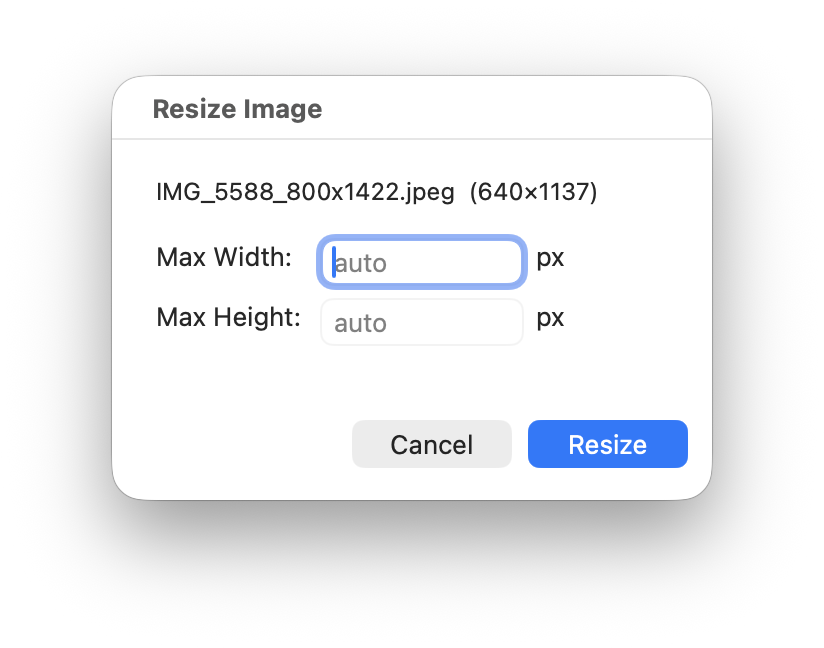
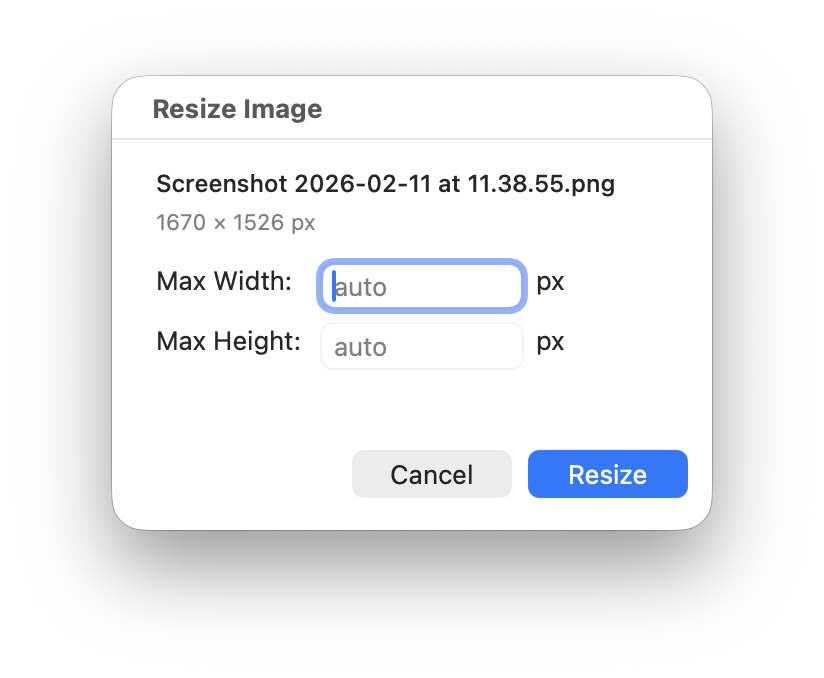
Fix dialog dimension display

diff --git a/resize-dialog.swift b/resize-dialog.swift
@@ -10,7 +10,7 @@ class ResizeDialogController: NSObject, NSWindowDelegate {
 
     func run(filename: String, origWidth: Int, origHeight: Int) -> Bool {
         let dialogWidth: CGFloat = 300
-        let dialogHeight: CGFloat = 180
+        let dialogHeight: CGFloat = 195
 
         window = NSWindow(
             contentRect: NSRect(x: 0, y: 0, width: dialogWidth, height: dialogHeight),
@@ -24,36 +24,44 @@ class ResizeDialogController: NSObject, NSWindowDelegate {
 
         let contentView = NSView(frame: NSRect(x: 0, y: 0, width: dialogWidth, height: dialogHeight))
 
-        // File info label
-        let infoLabel = NSTextField(labelWithString: "\(filename)  (\(origWidth)×\(origHeight))")
-        infoLabel.font = NSFont.systemFont(ofSize: 12)
-        infoLabel.frame = NSRect(x: 20, y: dialogHeight - 38, width: dialogWidth - 40, height: 20)
-        contentView.addSubview(infoLabel)
+        // Filename label (truncates with ellipsis if too long)
+        let nameLabel = NSTextField(labelWithString: filename)
+        nameLabel.font = NSFont.systemFont(ofSize: 12, weight: .medium)
+        nameLabel.lineBreakMode = .byTruncatingMiddle
+        nameLabel.frame = NSRect(x: 20, y: dialogHeight - 32, width: dialogWidth - 40, height: 18)
+        contentView.addSubview(nameLabel)
+
+        // Dimensions label
+        let dimLabel = NSTextField(labelWithString: "\(origWidth) × \(origHeight) px")
+        dimLabel.font = NSFont.systemFont(ofSize: 11)
+        dimLabel.textColor = .secondaryLabelColor
+        dimLabel.frame = NSRect(x: 20, y: dialogHeight - 50, width: dialogWidth - 40, height: 16)
+        contentView.addSubview(dimLabel)
 
         // Width row
         let wLabel = NSTextField(labelWithString: "Max Width:")
-        wLabel.frame = NSRect(x: 20, y: dialogHeight - 72, width: 80, height: 22)
+        wLabel.frame = NSRect(x: 20, y: dialogHeight - 84, width: 80, height: 22)
         contentView.addSubview(wLabel)
 
-        widthField = NSTextField(frame: NSRect(x: 105, y: dialogHeight - 72, width: 100, height: 22))
+        widthField = NSTextField(frame: NSRect(x: 105, y: dialogHeight - 84, width: 100, height: 22))
         widthField.placeholderString = "auto"
         contentView.addSubview(widthField)
 
         let wUnit = NSTextField(labelWithString: "px")
-        wUnit.frame = NSRect(x: 210, y: dialogHeight - 72, width: 30, height: 22)
+        wUnit.frame = NSRect(x: 210, y: dialogHeight - 84, width: 30, height: 22)
         contentView.addSubview(wUnit)
 
         // Height row
         let hLabel = NSTextField(labelWithString: "Max Height:")
-        hLabel.frame = NSRect(x: 20, y: dialogHeight - 102, width: 80, height: 22)
+        hLabel.frame = NSRect(x: 20, y: dialogHeight - 114, width: 80, height: 22)
         contentView.addSubview(hLabel)
 
-        heightField = NSTextField(frame: NSRect(x: 105, y: dialogHeight - 102, width: 100, height: 22))
+        heightField = NSTextField(frame: NSRect(x: 105, y: dialogHeight - 114, width: 100, height: 22))
         heightField.placeholderString = "auto"
         contentView.addSubview(heightField)
 
         let hUnit = NSTextField(labelWithString: "px")
-        hUnit.frame = NSRect(x: 210, y: dialogHeight - 102, width: 30, height: 22)
+        hUnit.frame = NSRect(x: 210, y: dialogHeight - 114, width: 30, height: 22)
         contentView.addSubview(hUnit)
 
         // Buttons
